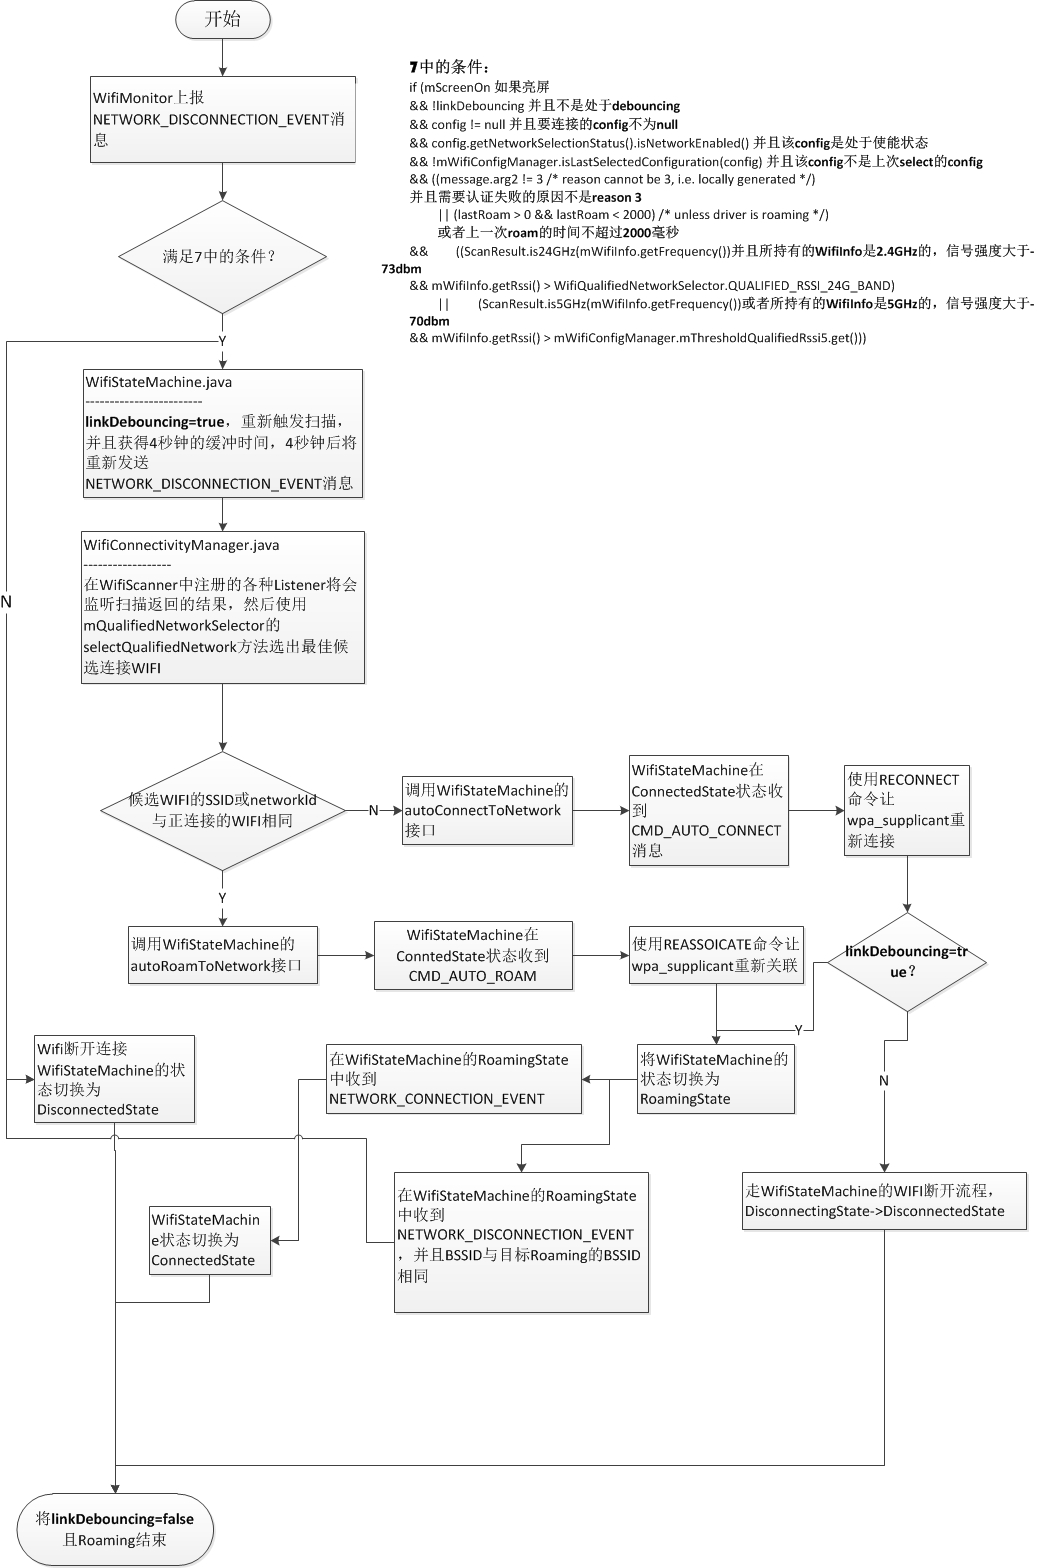
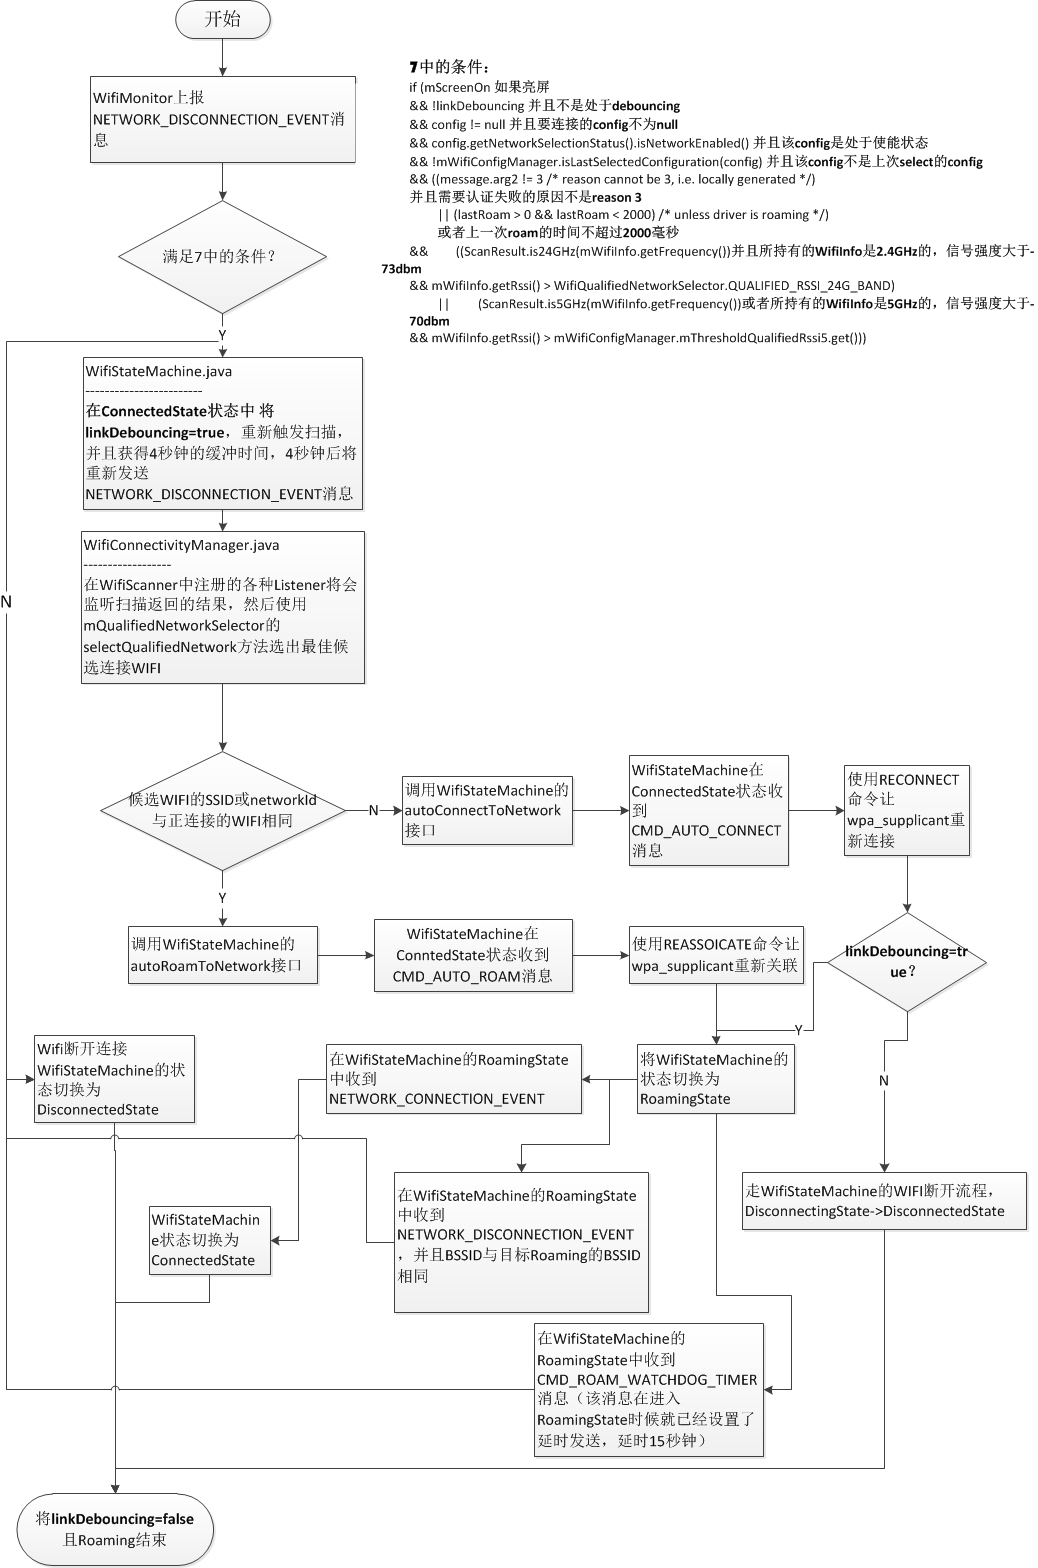
modify article

Changed region(s): [[0.0617, 0.2188, 0.3391, 0.3438], [0.4933, 0.8438, 0.7399, 0.9375], [0.3699, 0.5938, 0.5241, 0.6562]]

diff --git a/_posts/2017-05-05-Android中WIFI的Roaming.md b/_posts/2017-05-05-Android中WIFI的Roaming.md
@@ -113,3 +113,7 @@ mWifiConfigManager.mThresholdQualifiedRssi5.get()))
 ## **总结成流程图**
 ![](/blog/assets/wifi/wifi-roaming.jpg)
 
+* 9、	**以上的流程图是对除了2以外的梳理，2的Roaming行为我个人认为是wpa_supplicant的Roaming行为，而上文的流程图是WifiStateMachine的Roaming行为。**
+
+![](/blog/assets/wifi/wifi-roaming-1.jpg)
+
